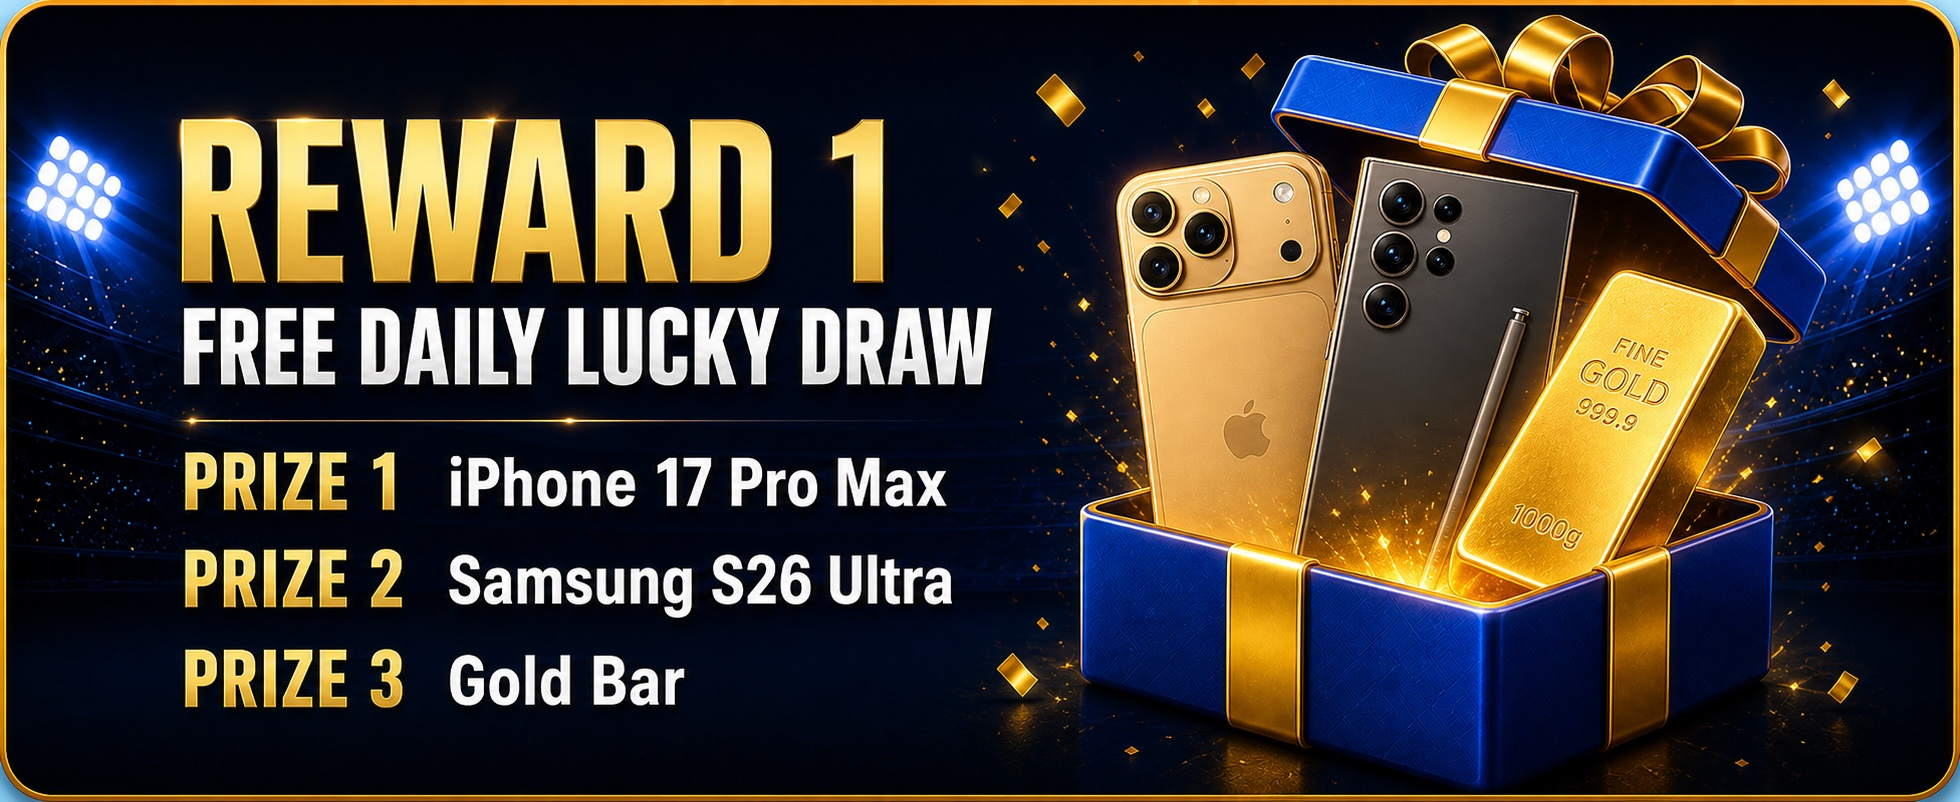
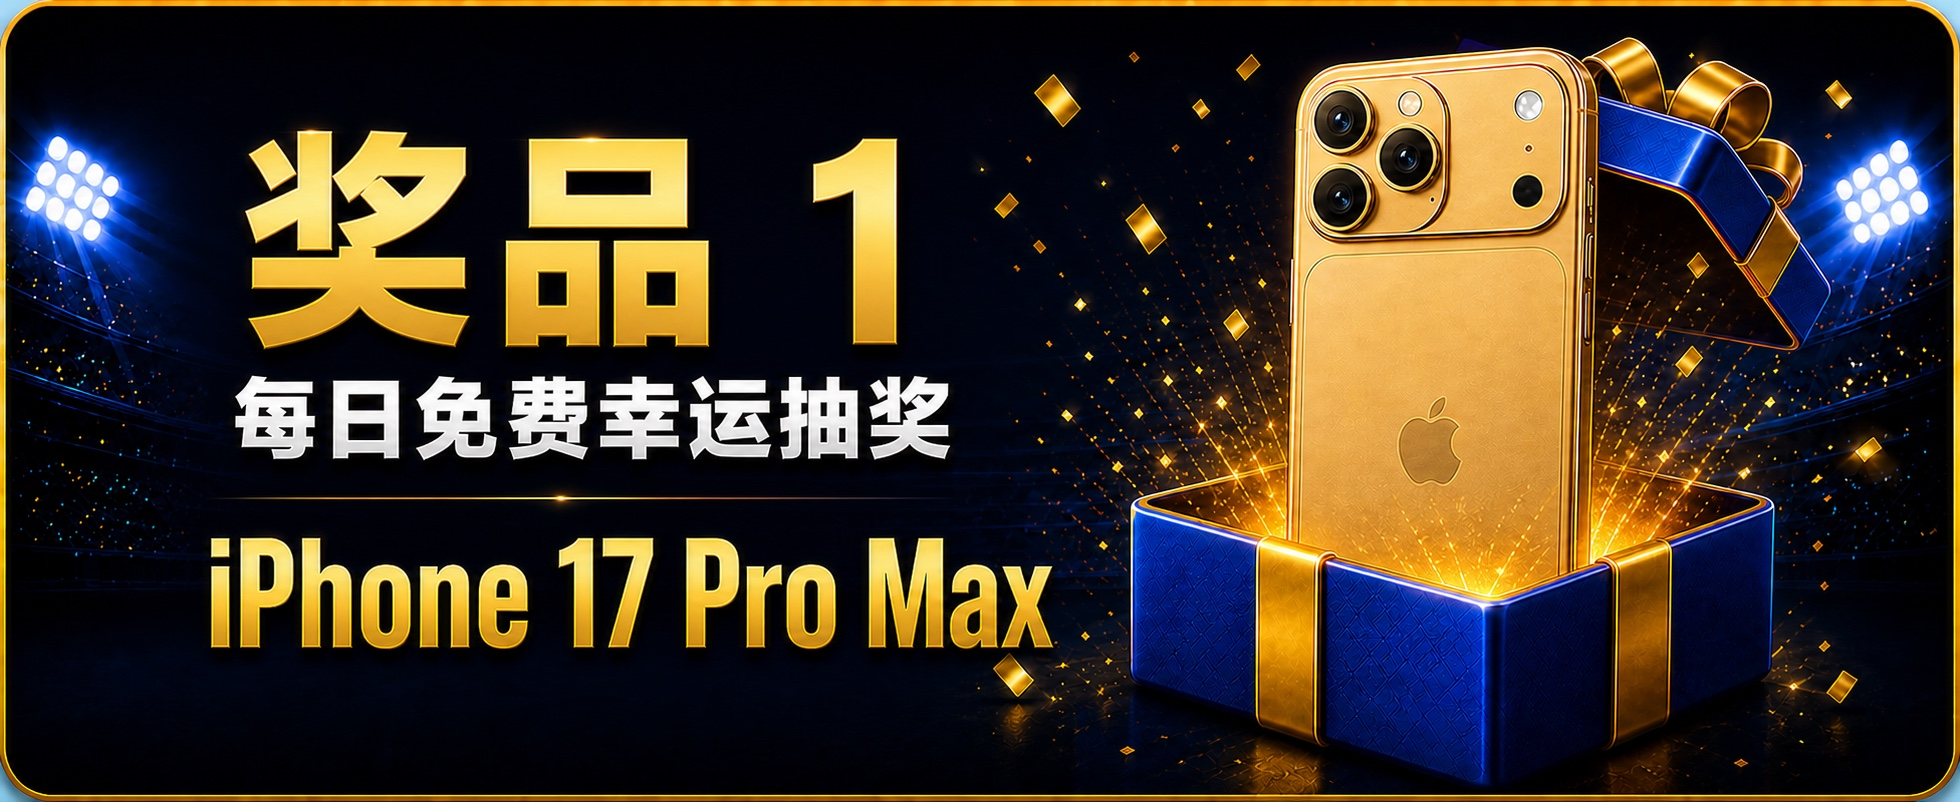
Use three Chinese single-prize reward cards

diff --git a/index.html b/index.html
@@ -32,38 +32,26 @@
         <div class="reward-image-list">
           <article class="reward-item reward-item-1">
             <div class="reward-image-frame">
-              <img src="assets/reward-card-1.jpg?v=lucky-draw-1" alt="奖金 1 FREE RM50 + Ang Pao">
+              <img src="assets/reward-card-1.jpg?v=cn-single-1" alt="奖品 1 iPhone 17 Pro Max 每日免费幸运抽奖">
             </div>
             <a class="gold-button real-cta" href="https://tinyurl.com/warb01" target="_blank" rel="noopener"><span>立即参加</span><small>Join Now</small></a>
           </article>
 
           <article class="reward-item reward-item-2">
             <div class="reward-image-frame">
-              <img src="assets/reward-card-2.jpg?v=lucky-draw-1" alt="奖金 2 FREE RM88,888 TOP 1 Turnover">
+              <img src="assets/reward-card-2.jpg?v=cn-single-1" alt="奖品 2 三星 S26 Ultra 每日免费幸运抽奖">
             </div>
             <a class="gold-button real-cta" href="https://tinyurl.com/warb01" target="_blank" rel="noopener"><span>立即参加</span><small>Join Now</small></a>
           </article>
 
           <article class="reward-item reward-item-3">
             <div class="reward-image-frame">
-              <img src="assets/reward-card-3.jpg?v=lucky-draw-1" alt="奖金 3 FREE RM58,888 TOP 2 Turnover">
+              <img src="assets/reward-card-3.jpg?v=cn-single-1" alt="奖品 3 金条 每日免费幸运抽奖">
             </div>
             <a class="gold-button real-cta" href="https://tinyurl.com/warb01" target="_blank" rel="noopener"><span>立即参加</span><small>Join Now</small></a>
           </article>
 
-          <article class="reward-item reward-item-4">
-            <div class="reward-image-frame">
-              <img src="assets/reward-card-4.jpg?v=lucky-draw-1" alt="奖金 4 FREE RM38,888 TOP 3 Turnover">
-            </div>
-            <a class="gold-button real-cta" href="https://tinyurl.com/warb01" target="_blank" rel="noopener"><span>立即参加</span><small>Join Now</small></a>
-          </article>
 
-          <article class="reward-item reward-item-5">
-            <div class="reward-image-frame">
-              <img src="assets/reward-card-5.jpg?v=lucky-draw-1" alt="奖金 5 FREE RM100 TOP 100 Turnover">
-            </div>
-            <a class="gold-button real-cta" href="https://tinyurl.com/warb01" target="_blank" rel="noopener"><span>立即参加</span><small>Join Now</small></a>
-          </article>
         </div>
       </section>
 
